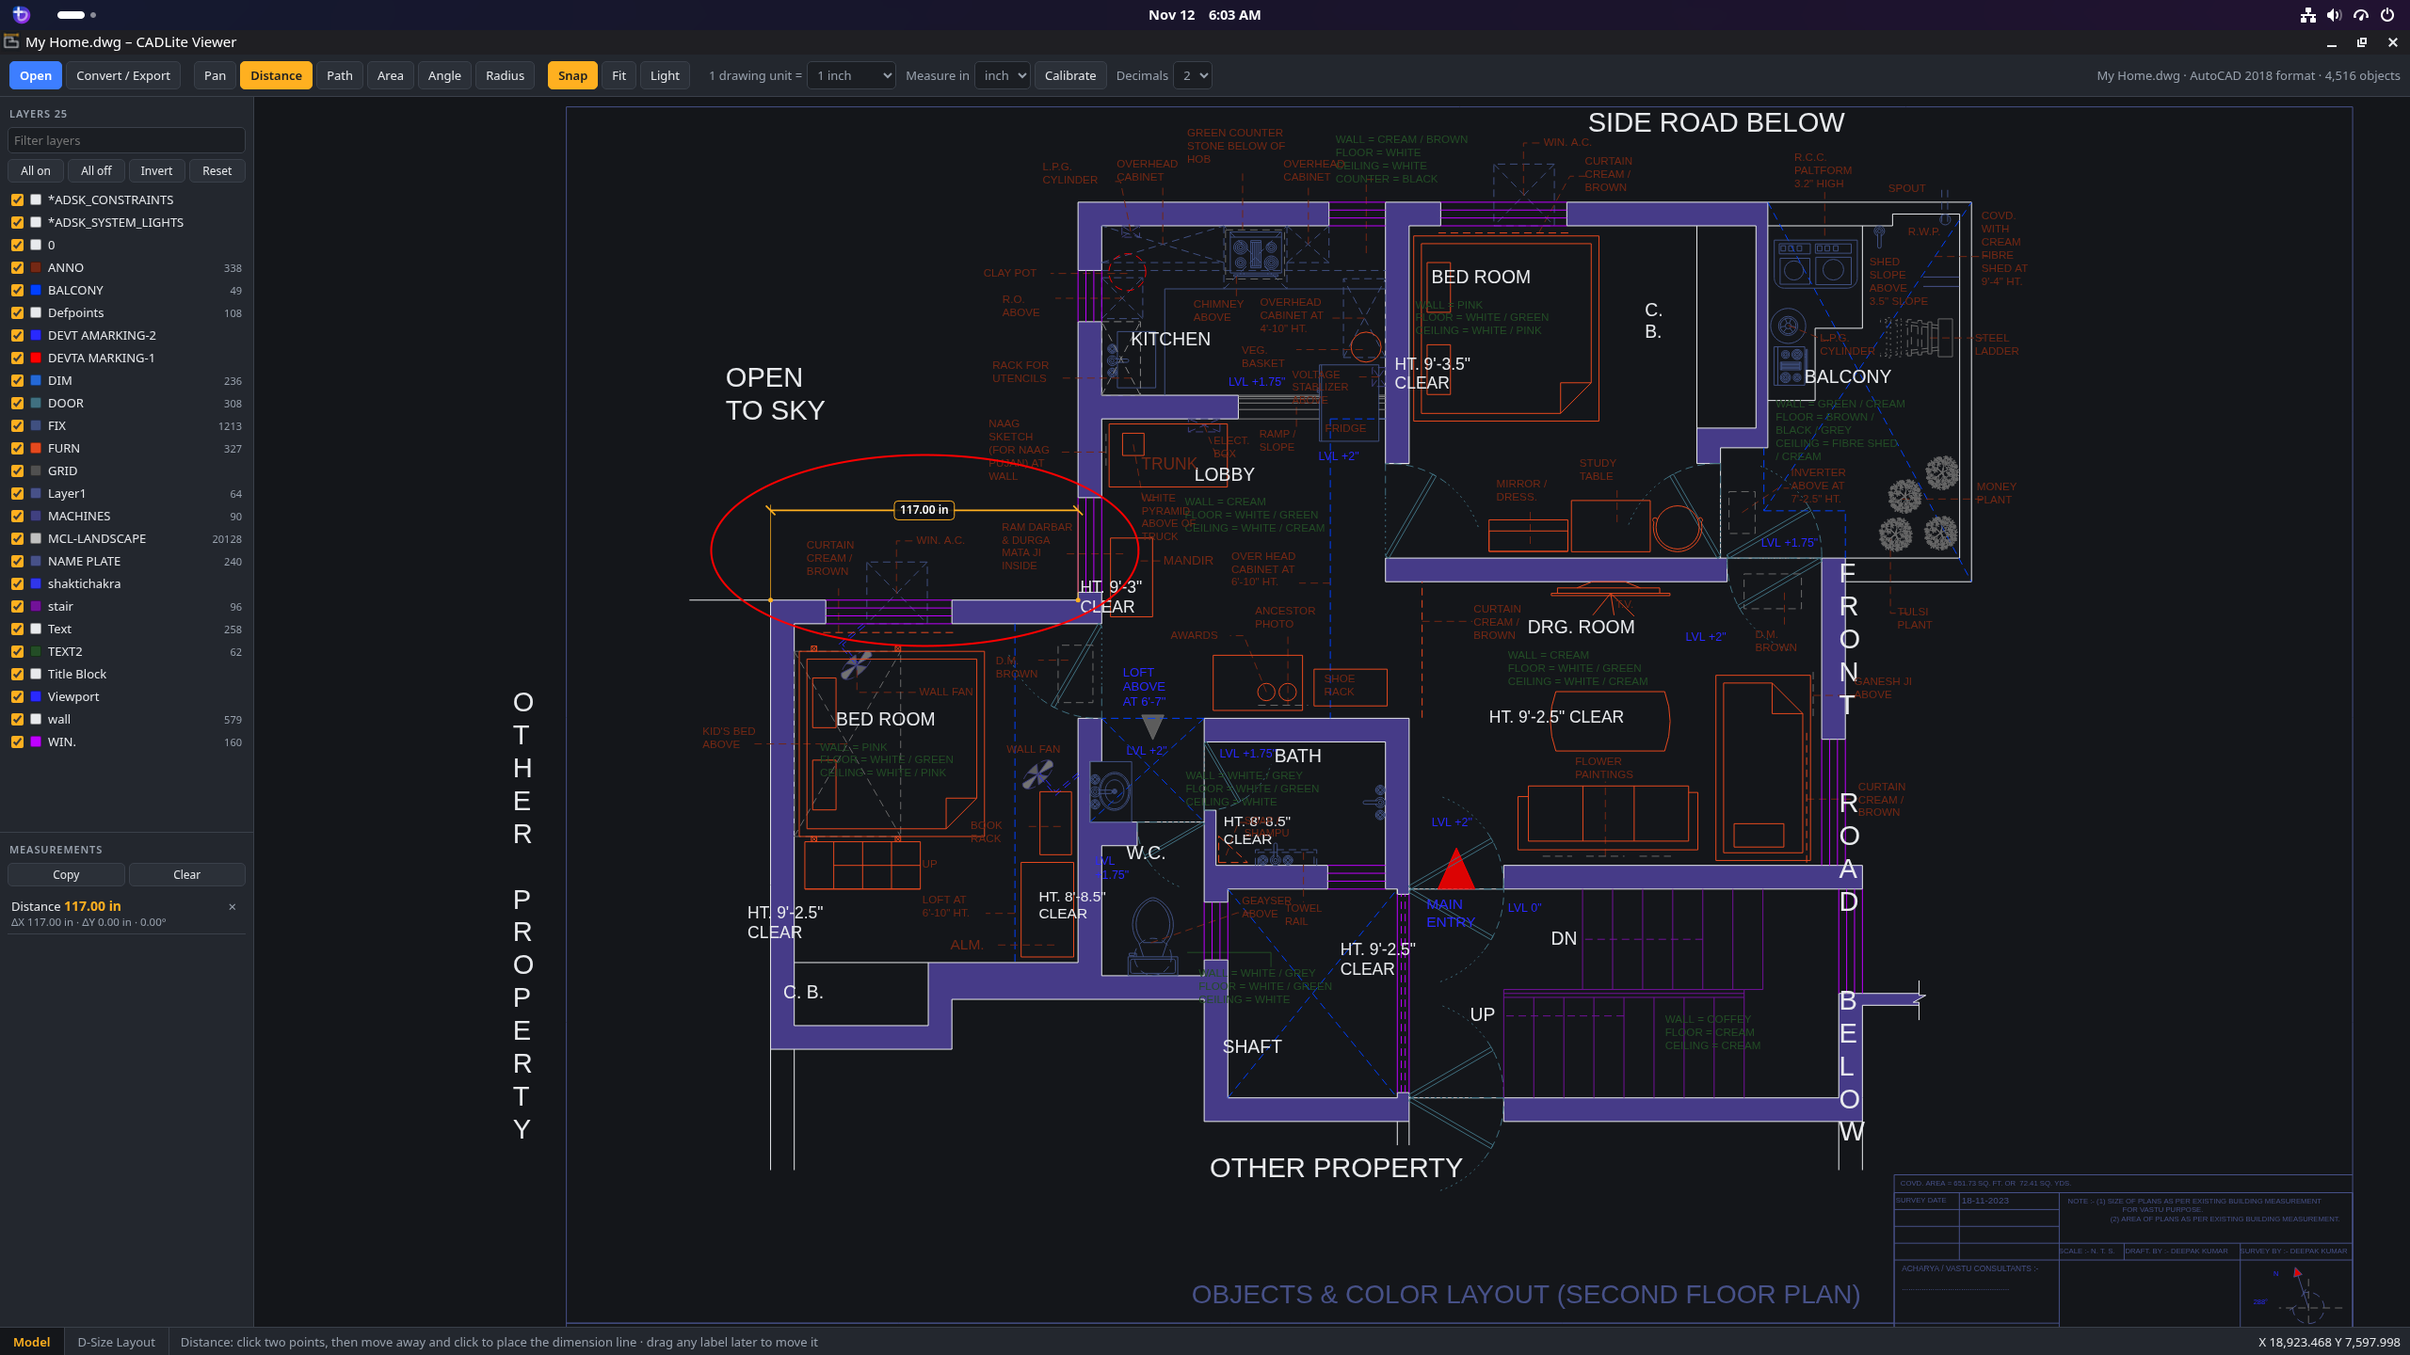
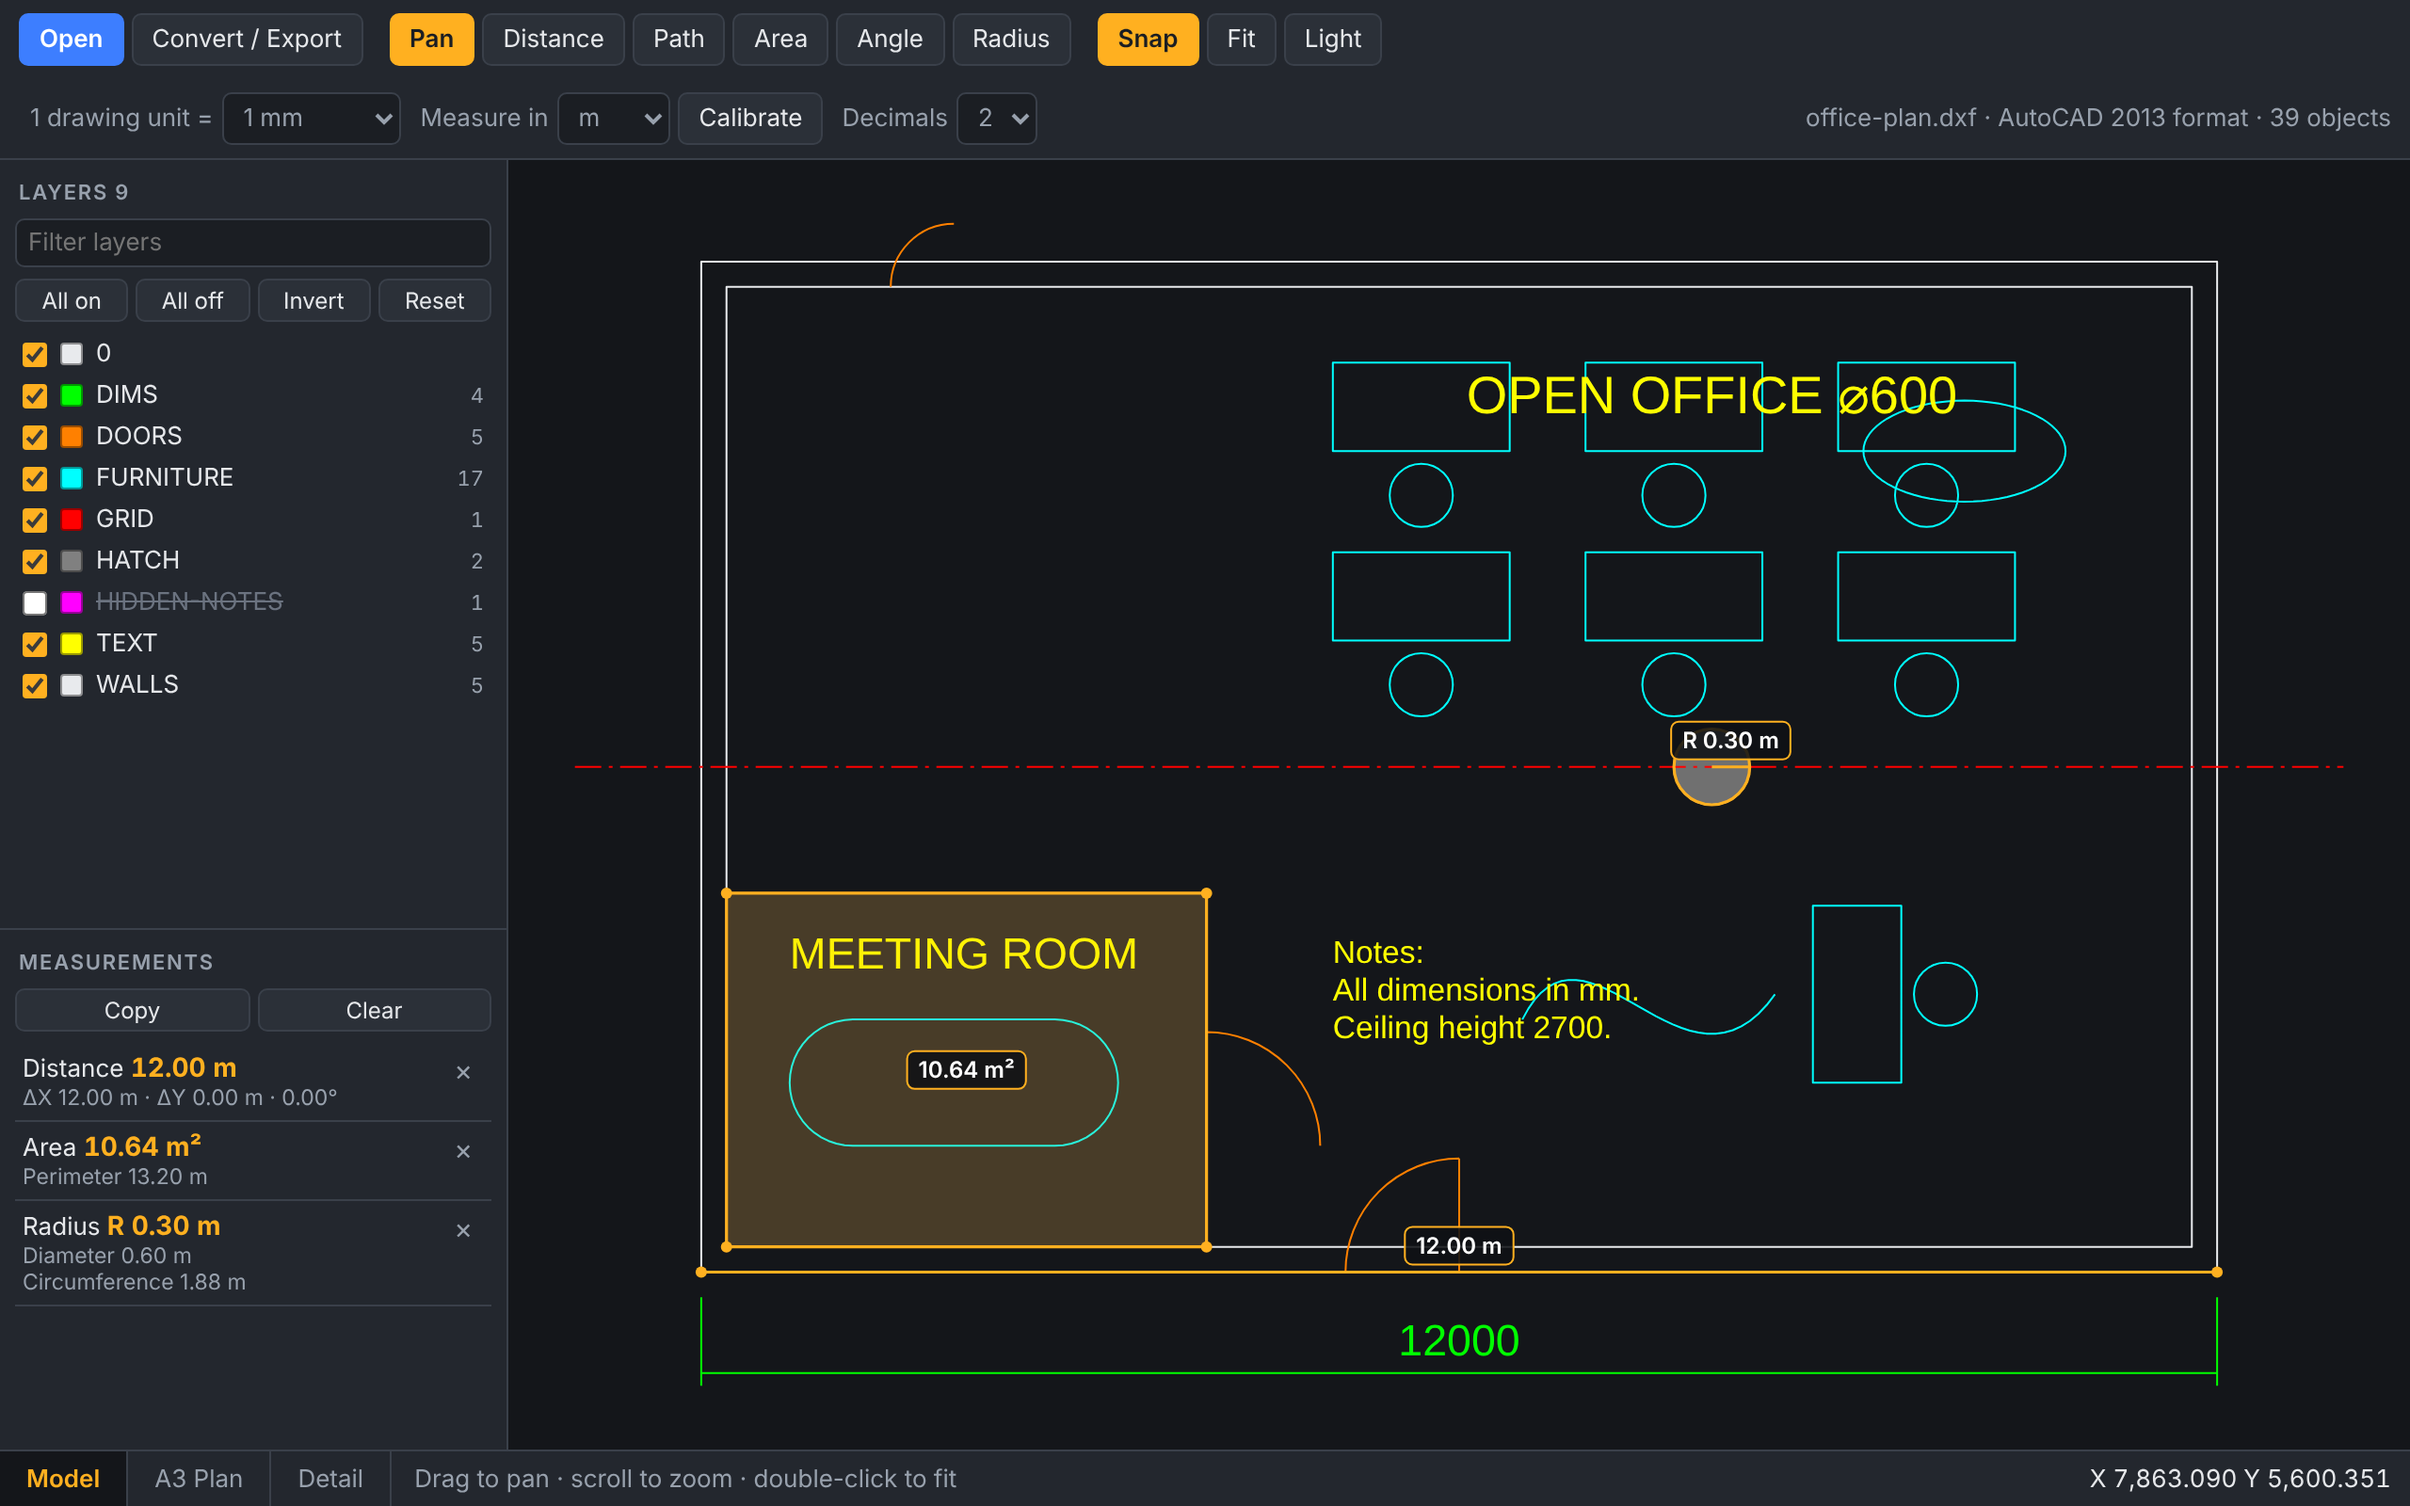
Add files via upload

diff --git a/README.md b/README.md
@@ -2,11 +2,11 @@
 
 # CADLite Viewer (beta)
 
-**A free, lightweight DWG and DXF viewer for Linux.** Open a drawing, switch
-between Model and layout sheets, turn layers on and off, and take real
-measurements, without Windows, Wine or a CAD licence.
+**A free, lightweight DWG and DXF viewer and editor for Linux.** Open a drawing,
+switch between Model and layout sheets, turn layers on and off, take real
+measurements and make quick edits, without Windows, Wine or a CAD licence.
 
-![Measuring on a floor plan](screenshots/measure.png)
+![Editing a floor plan](screenshots/editing.png)
 
 ## What it does
 
@@ -17,13 +17,56 @@ measurements, without Windows, Wine or a CAD licence.
   end, mid, centre and intersection points
 - **Units**: mm, cm, m, inch, feet, plus a Calibrate tool for drawings with an
   unknown scale
-- **Convert** between DWG/DXF versions; export SVG and PNG
+- **Edit**: line, polyline, rectangle, circle, arc, text, revision cloud,
+  hatch, move, copy, erase, explode, trim, extend, colour and layer, with undo
+- **Save** back to DWG or DXF in the original version; convert between versions;
+  export SVG and PNG
 - Runs locally: your drawings never leave your computer
 
-> **Beta.** Built for 2D review, not editing. Xrefs, 3D solids, images and true
+> **Beta.** Built for 2D review and quick markups, not full drafting. Xrefs, 3D solids, images and true
 > hatch patterns are not shown yet (see Known limits). The code was written
 > with AI assistance. If a drawing opens wrongly, please open an
 > [issue](../../issues).
+
+## Editing (beta)
+
+Click **Edit** to show the drawing tools. Everything is undoable (Ctrl+Z / Ctrl+Y).
+
+- **Draw:** Line, Polyline, Rectangle, Circle, Arc (3 points), multiline Text
+  (bold, italic, underline, strikethrough, font, alignment, ° ± ⌀ symbols), Table, Revision
+  cloud (rectangle or polygon) and Hatch (Solid, ANSI31, ANSI37, ANSI32, NET,
+  LINE, DASH, DOTS, BRICK, EARTH, with scale and angle).
+- **Hatch:** click inside any closed outline; closed shapes inside it become
+  islands. With no closed outline, click the corners of the area instead.
+- **Modify:** Move, Copy, Scale, Erase, Explode, Trim and Extend (quick mode: every
+  visible object is a cutting edge or boundary), plus Colour and Layer for the
+  selection. New layers can be created from the Layer list.
+- **Properties panel:** select anything (also outside Edit mode) to see and change
+  colour, layer, linetype, linetype scale, lineweight, and for texts the contents,
+  height, rotation and text style; circles and arcs show an editable radius, and
+  lines, polylines and hatches show their length or area.
+- **Hover highlight:** the object under the pointer lights up, so you can see what
+  a click will pick. Double-click a text to edit it.
+- **Zoom:** Pan, Zoom window (W, drag a box) and Extents (F); the mouse wheel zooms.
+- **Select:** click; Shift+click removes; drag left-to-right for a window,
+  right-to-left for a crossing selection.
+- **Precise input:** type in the command line at the bottom (AutoCAD style):
+  `L`, `PL`, `REC`, `C`, `A`, `T` (multiline), `DT` (single line), `TB`, `REVCLOUD`,
+  `H`, `M`, `CO`, `SC`, `TR`, `EX`, `X`, `E`, `U`, `ZW`. Points: `x,y`, `@dx,dy`, `@length<angle`, or just a length in the
+  direction of the cursor. Ortho (F8) and Snap (F3) as in AutoCAD.
+- **Saving:** Save (Ctrl+S) writes back to the same file and format (a DWG stays
+  a DWG in its original version), keeping the previous version as `name.bak`
+  the first time. Save as lets you pick another format, version and place.
+  Only changed objects are rewritten; everything else in the file is kept as
+  it was.
+
+Editing limits: no dimensions, grips, stretch, rotate, mirror, offset or fillet
+yet. Tables are made of lines and texts, not an AutoCAD table object. Trim and extend work on lines, arcs, circles and polylines (not
+splines or ellipses). Dimensions, tables, multileaders and images cannot be
+moved or copied yet. Explode breaks a block down completely (nested blocks
+too). Objects are drawn in the tab you are on; drawing through a layout
+viewport into model space is not supported. Files older than AutoCAD R14 save
+new hatches as outlines.
 
 | Layout sheet with viewport | One-click DWG setup |
 |---|---|
@@ -33,15 +76,15 @@ measurements, without Windows, Wine or a CAD licence.
 
 Any Linux (Bazzite, Fedora, Arch, openSUSE ...), no root needed:
 
-    curl -LO https://github.com/kumargauarv85/cadlite/releases/download/v1.4.0/cadlite-1.4.0-linux.tar.gz
-    tar xzf cadlite-1.4.0-linux.tar.gz
-    cd cadlite-1.4.0
+    curl -LO https://github.com/kumargauarv85/cadlite/releases/download/v2.1.0/cadlite-2.1.0-linux.tar.gz
+    tar xzf cadlite-2.1.0-linux.tar.gz
+    cd cadlite-2.1.0
     ./install.sh
 
 Ubuntu / Debian / Mint / Pop!_OS:
 
-    curl -LO https://github.com/kumargauarv85/cadlite/releases/download/v1.4.0/cadlite_1.4.0_all.deb
-    sudo apt install ./cadlite_1.4.0_all.deb
+    curl -LO https://github.com/kumargauarv85/cadlite/releases/download/v2.1.0/cadlite_2.1.0_all.deb
+    sudo apt install ./cadlite_2.1.0_all.deb
 
 Start it from the application menu ("CADLite Viewer"), by right-clicking a
 .dwg/.dxf file and choosing "Open With", or from a terminal: `cadlite plan.dwg`.
@@ -102,8 +145,7 @@ ACAD2010, ACAD2013, ACAD2018).
 ## Known limits
 
 2D viewer: 3D solids/surfaces (ACIS), images, OLE objects, XLINE/RAY and
-MLINE are not drawn; 3D geometry is shown in plan. Hatch patterns are shown
-as a light tint, text uses a system font, line weights are not shown, and
+MLINE are not drawn; 3D geometry is shown in plan. text uses a system font, line weights are not shown, and
 viewports are clipped to their rectangle and assumed to look straight down.
 
 ## Licence
